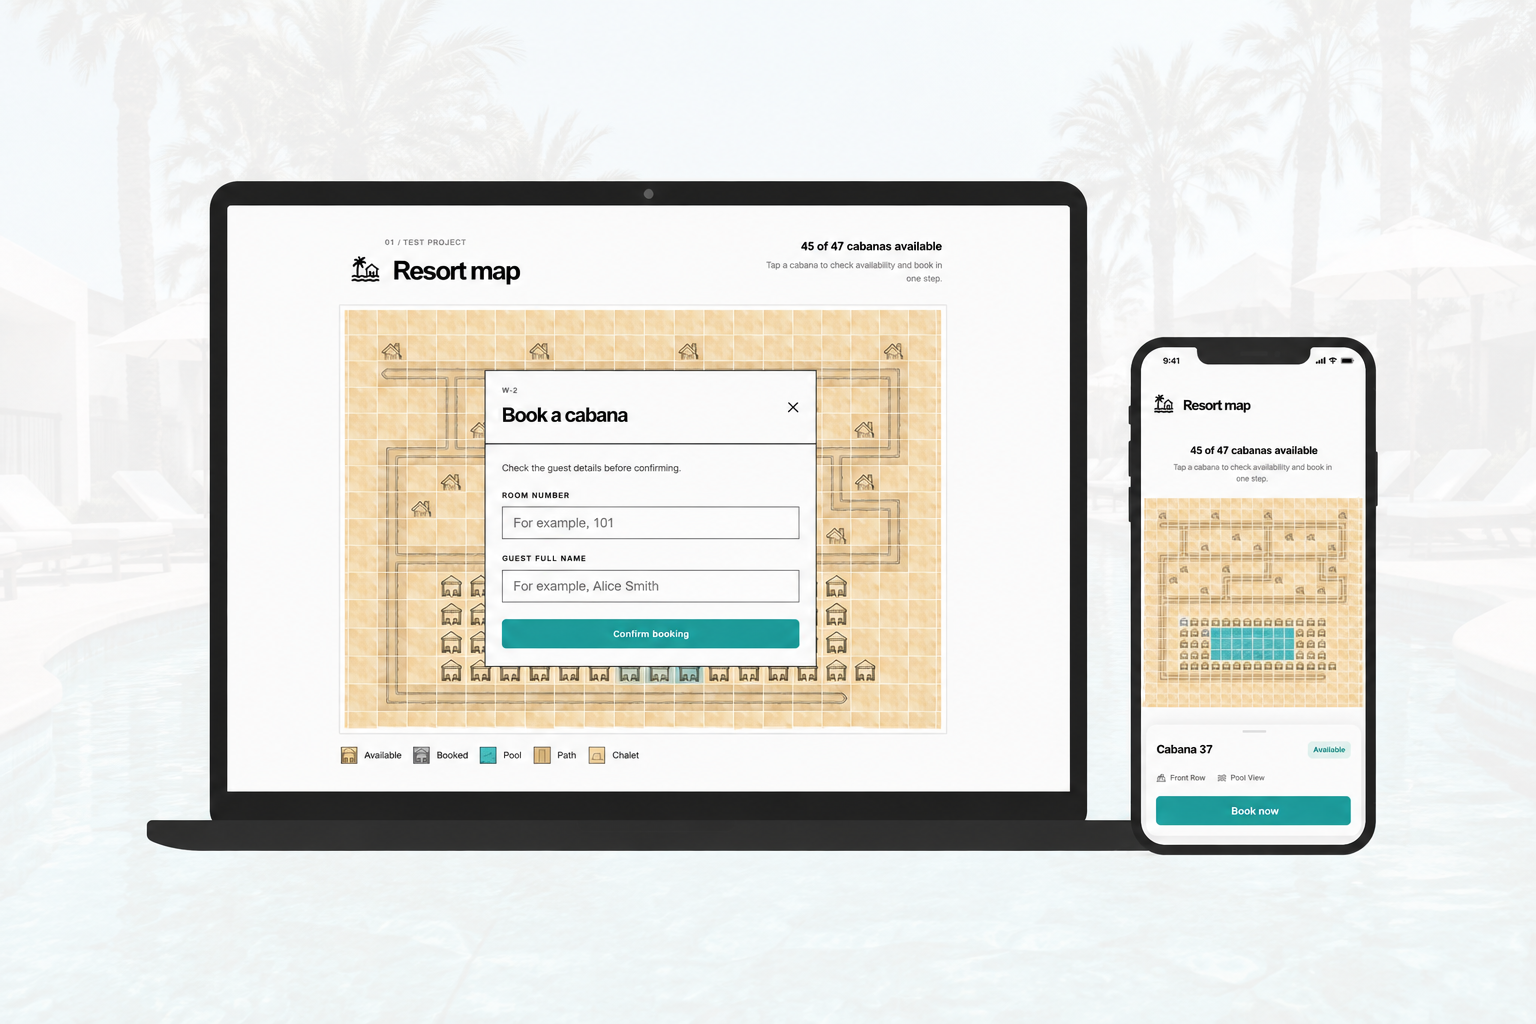
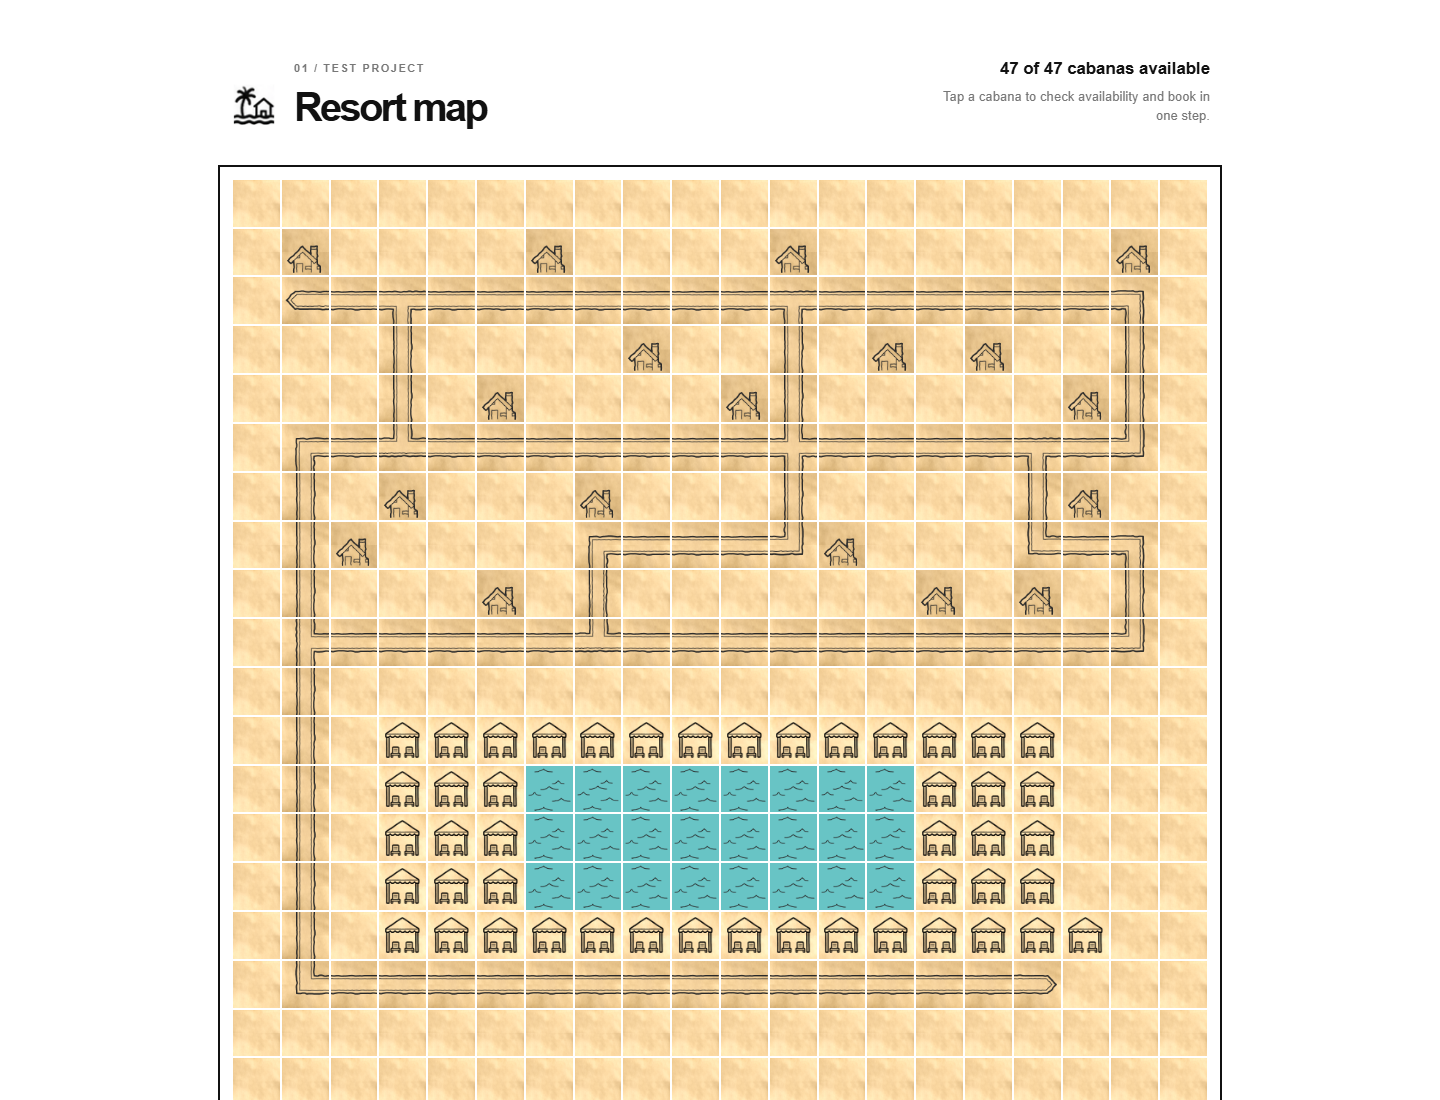
screans

diff --git a/README.md b/README.md
@@ -1,5 +1,7 @@
 # Resort Map
 
+![Resort map — running solution](mockup.png)
+
 Interactive resort map and cabana booking test project built with Express, Vanilla JavaScript, and an MVC-like architecture with a dedicated Service Layer (`lib/resort.js`).
 The project uses a small Express backend and a Vanilla JavaScript frontend. The browser receives application data through a REST API and does not read the map or guest files directly.
 
